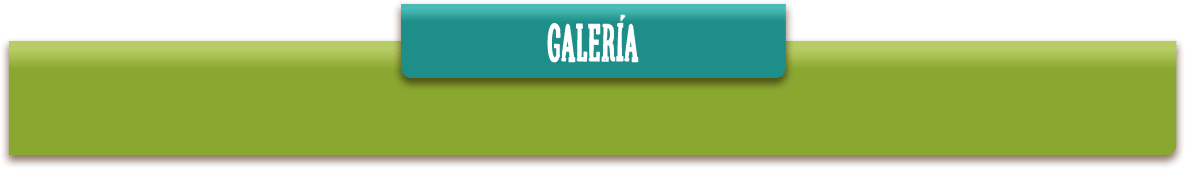
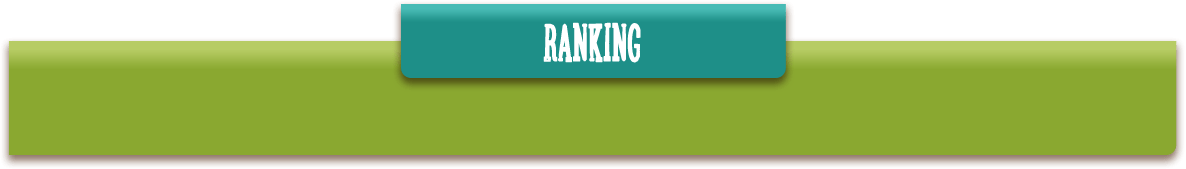
ajustes

Changed region(s): [[0.4368, 0.0888, 0.5616, 0.3846]]

diff --git a/theme-super-ricas/js/general.js b/theme-super-ricas/js/general.js
@@ -10,7 +10,21 @@ $(document).ready(function() {
     // LOADING 
 
 	// menu 
+	$(".terminos").on('click', function(e) {
+      $('#modal-test .formularios').html('<iframe width="100%" height="100%" src="https://www.youtube.com/embed/eEraihXCzf4?autoplay=1&enablejsapi=1" frameborder="0" allowfullscreen></iframe>');
+    });
 
+    $(".modal").on('click', function(e) {
+    	$('.modal').fadeOut( "slow" );
+      $('.modal .video').html('');
+    });
+    var url = window.location.href;
+    console.log("Local: "+url);
+    if(url == "https://supercrokantes.com/" || url == "https://www.supercrokantes.com/")
+    {
+      $('.modal').show();
+      $('.modal .video').html('<iframe width="100%" height="100%" src="https://www.youtube.com/embed/1PNNxz5MOv0?autoplay=1" frameborder="0" allowfullscreen></iframe>');
+    }
 
 
     loading();

diff --git a/theme-super-ricas/layoutcss/general.css b/theme-super-ricas/layoutcss/general.css
@@ -1592,5 +1592,36 @@ display:block;
   margin-top: 6px;
   margin-left: 0;
 }
+/*Modal*/
 
-    
+.modal{
+  position: fixed;
+  z-index: 10000;
+  width: 100%;
+  height: 100%;
+  background: rgba(0,0,0,0.8);
+  display: none;
+}
+.modal .video{
+    position: absolute;
+    width: 70%;
+    height: 70%;
+    left: 15%;
+    top: 15%;
+}
+.cerrar-modal{
+  position: absolute;
+  font-size: 20px;
+  border: solid 1px white;
+  padding: 8px;
+  border-radius: 20px;
+  font-family: sans-serif;
+  font-weight: 600;
+  line-height: 20px;
+  width: 40px;
+  text-align: center;
+  left: 85%;
+  top: 11%;
+  background-color: orange;
+  cursor: pointer;
+}

diff --git a/theme-super-ricas/templates/instructions-tpl.php b/theme-super-ricas/templates/instructions-tpl.php
@@ -7,7 +7,7 @@
 <div class="wrapper_int">
 	<div class="box_instrucciones">
 	    <div class="titulo_instrucciones">
-	        <p>Solo debes seguir estos 4 pasos y podrás ganar <strong>Increíbles premios</strong></p>
+	        <p>Solo debes seguir estos 4 pasos y podrás ganar <strong>increíbles premios</strong></p>
 	    </div>
 	    <div class="box_pasos_instrucciones">
 	        <div class="pasos">
@@ -18,18 +18,19 @@
 	        <div class="pasos">
 	            <img src="<?php bloginfo('template_url')?>/assets/rec_logo.png" alt="">
 	            <span><strong>2. JUEGA</strong></span>
-	            <p>Grábate comiendo tus papas al ritmo de la música y cae en el Croonch. <br> Decora tu video para que sea más original y métele toda la actitud  <a href="#">Ver video instructivo</a>  </p>
+	            <p>Grábate comiendo tus papas al ritmo de la música y cae en el Croonch. <br> Decora tu video para que sea más original y métele toda la actitud.<br> <a href="#">Ver video instructivo.</a>  </p>
 	        </div>
 	        <div class="pasos">
 	            <img src="<?php bloginfo('template_url')?>/assets/ingresa_logo_2.png" alt="">
 	            <span><strong>3. COMPARTE</strong></span>
-	            <p>Regrístralo y compártelo en Facebook.<br>Pídele a tus amigos que voten por tu video. <br><a href="#">Ver Cómo</a></p>
+	            <p>Regístralo y pídele a tus amigos que te ayuden votando por tu video en <a href="https://supercrokantes.com">www.supercrokantes.com</a>, en la sección del Ranking.<br><a href="#">Ver cómo</a></p>
 	        </div>
 	        <div class="pasos">
 	            <img src="<?php bloginfo('template_url')?>/assets/premios.png" alt="">
 	            <span><strong>4. GANA</strong></span>
-	            <p>Si tu video es el más votado de la semana ganarás unos increíbles audífonos Sony y anchetas de nuestro producto.
-Adicional a esto quedarás seleccionado para participar por el Gran Premio*. <br><a href="<?php echo site_url(); ?>/premios" class="">Ver Premios</a></p>
+	            <p>El 15 de marzo de 2017 escogeremos los 10 videos más votados.
+	            <br>Si tu video es el más votado de todo el concurso ,serás el ganador de uno de los grandes premios…
+	            <br>Los 9 finalistas restantes, automáticamente ganarán audífonos Sony y anchetas de nuestros productos.<br><a href="<?php echo site_url(); ?>/premios" class="">Ver premios</a></p>
 	        </div>
 	    </div>
 	</div><!--box_instrucciones-->

diff --git a/theme-super-ricas/templates/premios-tpl.php b/theme-super-ricas/templates/premios-tpl.php
@@ -7,8 +7,10 @@
 <div class="wrapper_int premios">
 	<div class="box_premios">
         <div class="titulos-premios">
-            <h2>Si tu vídeo es uno de los más votados en una de las semanas del Reto Super Crokantes, podrás participar para ganar y escoger el premio que más te guste.</h2>
-            <h1>GRANDES PREMIOS</h1>
+        <h1>Vive experiencias únicas con Super Ricas - Super crokantes</h1>
+        
+        <h2>Si tu video es el más votado de los 10 finalistas del Reto Super Crokantes, serás el ganador de uno de estos grandes premios:</h2>
+            
         </div>
         
         <div class="titulo_premios1">
@@ -31,7 +33,6 @@
                 <h3>El premio incluye:</h3>
                 <ul>
                     <li>Preparación  en la cabina del avión o en simulador.</li>
-                    <li>Preparación  en la cabina del avión o en simulador.</li>
                     <li>Vuelo en monomotor junto a Piloto Experto.</li>
                     <li>Transporte ida y vuelta de la ciudad de destino al lugar de la actividad.</li>
                     <li>Refrigerio.</li>
@@ -40,7 +41,7 @@
             </div>
         </div>
         <div class="titulo_premios_2">
-            <p>Todas las semanas premiaremos el vídeo más votado con Audífonos Plegables e increíbles Anchetas de <span> <strong>nuestros productos.</strong></span></p>
+            <p>Los 9 finalistas restantes automáticamente serán ganadores de audífonos <strong>Sony</strong> y anchetas de <span> <strong>nuestros productos.</strong></span></p>
         </div>
         <a href="javascript:void(0);" class="inicia_el_reto"></a>
         <a href="javascript:void(0);" class="terminos_condiciones_premios">

diff --git a/theme-super-ricas/includes/prompts.php b/theme-super-ricas/includes/prompts.php
@@ -37,8 +37,18 @@
             <input type="hidden" class="content" name="apfcontents">
             <div class="box_captcha">
                 <div class="g-recaptcha" data-sitekey="6LdCVggUAAAAAME42kSwJkp8enkbldoR2emOHkjm"></div>
-            </div> 
-            <input type="checkbox" class="validate[required]" placeholder="Alias"><span class="tyc">Acepto<a href="">Términos y Condiciones</a></span>
+            </div>
+            <span class="autorizacion" style="color:gray">Autorizo de manera voluntaria, previa, explícita, informada e inequívoca, que mis datos personales sean
+recolectados y tratados de conformidad con la Política de Tratamiento de la Información de COMESTIBLES
+RICOS S.A. <br>
+La autorización suministrada en el presente formulario faculta a COMESTIBLES RICOS S.A para que dé a sus
+datos aquí recopilados el tratamiento señalado en las Políticas, incluyendo entre otros, el envío de
+comunicaciones, correspondencia, correos electrónicos o contacto telefónico. El titular de los datos podrá, en
+cualquier momento, solicitar que la información sea modificada, actualizada o suprimida de las bases de datos
+de COMESTIBLES RICOS S.A. al correo electrónico habeasdata@superricas.com.<br><br></span>
+            <input class="validate[required] checkbox" type="checkbox" id="agree" name="agree"/>
+            <span class="tyc">Acepto <a href="">Términos y Condiciones</a>
+            </span>
             <input type="button" class="generar_url" value="Subir">
             <input type="text" class="url_generated" placeholder="URL GENERADA" style="display:none">
             <input type="button" class="enviar_compartir" style="display:none">

diff --git a/theme-super-ricas/header.php b/theme-super-ricas/header.php
@@ -21,7 +21,12 @@
     <!-- End Google Tag Manager -->
 </head>
 <body <?php body_class(); ?>>
-
+    <div class="modal">
+        <div class="cerrar-modal">X</div>
+      <div class="video">
+        
+      </div>
+    </div>
     <div class="loader" style="width: 100%;height: 100%;background-color: rgb(190, 4, 17); z-index: 10000;display:block">
         <div class="loader_center"></div>
     </div>
@@ -34,7 +39,7 @@
             <li><a href="<?php echo home_url('/'); ?>">INICIO</a></li>
             <li><a href="/instrucciones">INSTRUCCIONES</a></li>
             <li><a href="/premios">PREMIOS</a></li>
-            <li><a href="<?php echo home_url('/'); ?>#gallery">GALERIAS</a></li>
+            <li><a href="<?php echo home_url('/'); ?>#gallery">RANKING</a></li>
         </ul>   
     </div>
 
@@ -46,7 +51,7 @@
                 <li><a href="<?php echo home_url('/'); ?>">
                 <img src="<?php bloginfo('template_url')?>/img/logo.png" alt=""></a></li>
                 <li><a href="/premios">PREMIOS</a></li>
-                <li><a href="<?php echo home_url('/'); ?>#gallery">GALERIAS</a></li>
+                <li><a href="<?php echo home_url('/'); ?>#gallery">RANKING</a></li>
             </ul>
         </nav>
     </header>

diff --git a/theme-super-ricas/single.php b/theme-super-ricas/single.php
@@ -24,7 +24,7 @@
 	<meta property="og:url"                content="<?php the_permalink();?>" />
 	<meta property="og:type"               content="article" />
 	<meta property="og:title"              content="Vota por mi video del Reto Super Crokante"/>
-	<meta property="og:description"        content="Ayúdame a ganar votos para ir a conocer caño Cristales Con Super Ricas Super Crokantes" />
+	<meta property="og:description"        content="Ayúdame a ganar Votos en este link para ganar increibles premios con SuperCrokantes" />
 	<meta property="og:image"              content="<?php echo bloginfo('template_url');?>/<?php echo $photo[0]; ?>" />
     <meta property="article:publisher" content="https://www.facebook.com/superricasoficial" />
     <meta property="article:author" content="https://www.facebook.com/superricasoficial" />
